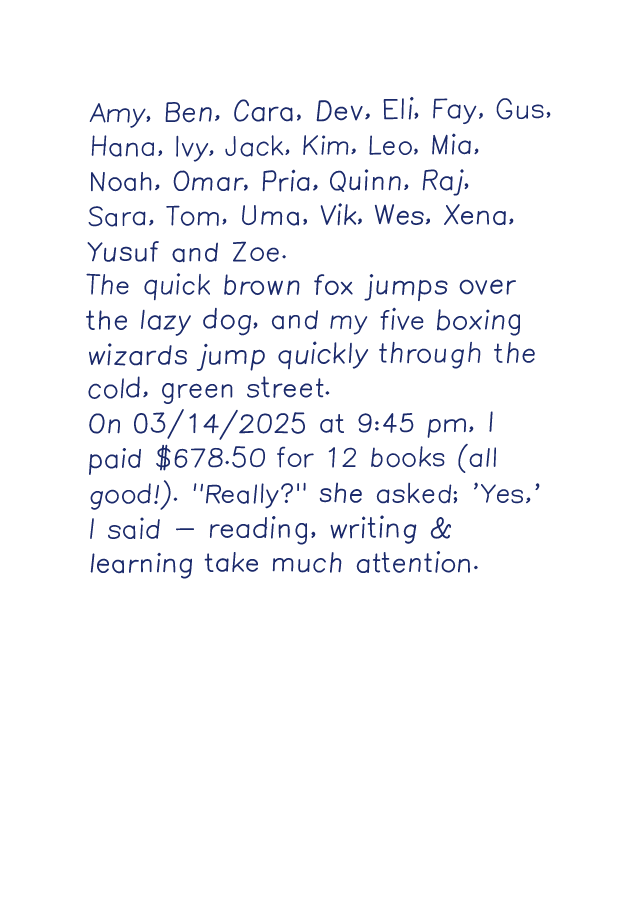
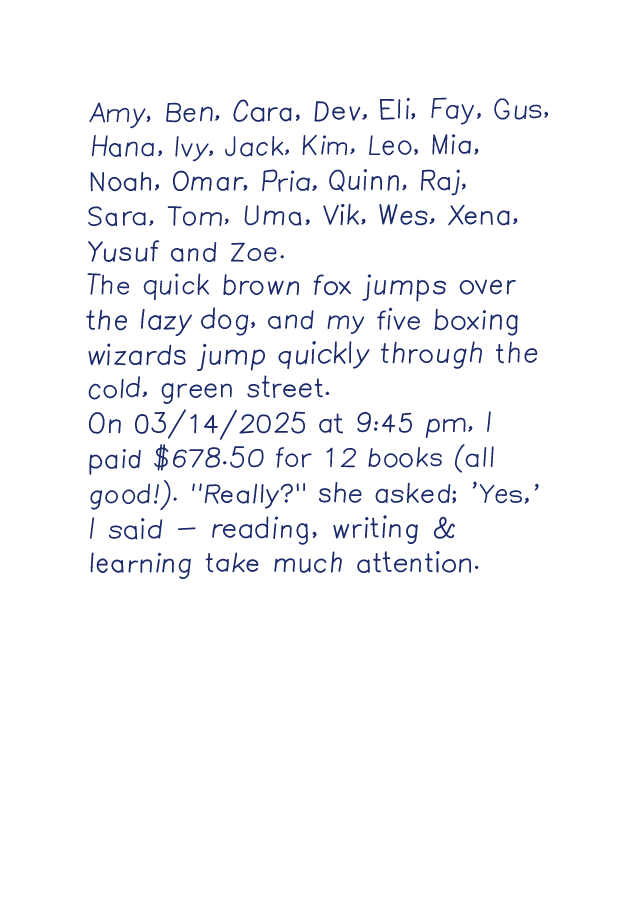
feat(engine): add per-placement glyph warping [1.6]

diff --git a/packages/engine/src/warp.test.ts b/packages/engine/src/warp.test.ts
@@ -1,0 +1,87 @@
+import { createRng } from '@pentwin/shared';
+import { describe, expect, it } from 'vitest';
+import { NO_JITTER } from './jitter';
+import { serializePath } from './path';
+import { renderText } from './render';
+import { loadSampleBank } from './testing';
+import { createWarp } from './warp';
+
+const X_HEIGHT = 140;
+
+describe('createWarp', () => {
+  it('is the identity when the amount is zero', () => {
+    const warp = createWarp(createRng(1), 0, X_HEIGHT);
+    expect(warp(37, -120)).toEqual([37, -120]);
+  });
+
+  it('moves points by a small, bounded distance', () => {
+    for (let seed = 0; seed < 200; seed++) {
+      const warp = createWarp(createRng(seed), 0.05, X_HEIGHT);
+      for (const [x, y] of [
+        [0, 0],
+        [100, -140],
+        [60, 70],
+        [140, -210],
+      ] as const) {
+        const [wx, wy] = warp(x, y);
+        // Affine part is at most 5% of each coordinate (twice for x: scale + shear),
+        // each wave at most 0.7 * 5% of the x-height.
+        const limit = 0.05 * (Math.abs(x) + Math.abs(y)) + 0.035 * X_HEIGHT + 1e-9;
+        expect(Math.abs(wx - x)).toBeLessThanOrEqual(limit);
+        expect(Math.abs(wy - y)).toBeLessThanOrEqual(limit);
+      }
+    }
+  });
+
+  it('bends smoothly: neighbouring points move together', () => {
+    const warp = createWarp(createRng(7), 0.08, X_HEIGHT);
+    const [ax, ay] = warp(50, -50);
+    const [bx, by] = warp(52, -50);
+    expect(Math.hypot(bx - ax - 2, by - ay)).toBeLessThan(0.5);
+  });
+
+  it('differs from one glyph to the next and is reproducible', () => {
+    const rng = createRng(3);
+    const first = createWarp(rng, 0.05, X_HEIGHT)(100, -100);
+    const second = createWarp(rng, 0.05, X_HEIGHT)(100, -100);
+    expect(first).not.toEqual(second);
+    expect(createWarp(createRng(3), 0.05, X_HEIGHT)(100, -100)).toEqual(first);
+  });
+});
+
+describe('warp in rendering', () => {
+  const bank = loadSampleBank();
+  // Normalise each "e" to its own start point, so only the shape is compared.
+  const shapes = (warp: number): Set<string> => {
+    const { pages } = renderText('e'.repeat(60), bank, {
+      seed: 'warp',
+      jitter: { ...NO_JITTER, warp },
+    });
+    return new Set(
+      pages[0]!.strokes.map(({ path }) => {
+        const start = path[0] as { x: number; y: number };
+        return serializePath(
+          path.map((c) =>
+            c.type === 'C'
+              ? {
+                  type: 'C' as const,
+                  x1: c.x1 - start.x,
+                  y1: c.y1 - start.y,
+                  x2: c.x2 - start.x,
+                  y2: c.y2 - start.y,
+                  x: c.x - start.x,
+                  y: c.y - start.y,
+                }
+              : { type: 'M' as const, x: 0, y: 0 },
+          ),
+          1,
+        );
+      }),
+    );
+  };
+
+  it('turns 3 stored variants into a different shape for every placement', () => {
+    expect(shapes(0).size).toBeLessThanOrEqual(3 * 2); // 3 variants, allowing for rounding
+    expect(shapes(0.05).size).toBe(60);
+  });
+});

diff --git a/packages/engine/src/jitter.ts b/packages/engine/src/jitter.ts
@@ -1,5 +1,6 @@
 import type { Rng } from '@pentwin/shared';
 import type { Styler } from './style';
+import { createWarp } from './warp';
 
 /** How far the writing strays from the ideal. All zeros means perfectly mechanical output. */
 export interface JitterParams {
@@ -23,6 +24,8 @@ export interface JitterParams {
   strokeWidth: number;
   /** mm. How far the left edge of the text wanders from line to line. */
   marginDrift: number;
+  /** Fraction of the x-height. How much each placed glyph's shape is bent. */
+  warp: number;
 }
 
 export const NO_JITTER: JitterParams = {
@@ -36,6 +39,7 @@ export const NO_JITTER: JitterParams = {
   slantVariation: 0,
   strokeWidth: 0,
   marginDrift: 0,
+  warp: 0,
 };
 
 export const DEFAULT_JITTER: JitterParams = {
@@ -49,6 +53,7 @@ export const DEFAULT_JITTER: JitterParams = {
   slantVariation: 2,
   strokeWidth: 0.08,
   marginDrift: 0.8,
+  warp: 0.05,
 };
 
 const DEG = Math.PI / 180;
@@ -85,8 +90,19 @@ export function createNoise(rng: Rng): (t: number) => number {
 export const pairBias = (prev: string, char: string): number =>
   hash((prev.codePointAt(0) ?? 0) * 0x10001 + (char.codePointAt(0) ?? 0));
 
-/** Builds the styler for one page. `xHeight` is in mm. */
-export function createJitterStyler(params: JitterParams, rng: Rng, xHeight: number): Styler {
+export interface StyleMetrics {
+  /** x-height on the page, in mm. */
+  xHeight: number;
+  /** x-height of the bank's glyphs, in glyph units. */
+  glyphXHeight: number;
+}
+
+/** Builds the styler for one page. */
+export function createJitterStyler(
+  params: JitterParams,
+  rng: Rng,
+  { xHeight, glyphXHeight }: StyleMetrics,
+): Styler {
   // Sum of two uniforms: mostly small values, occasionally a larger one.
   const wobble = (): number => rng.next() + rng.next() - 1;
 
@@ -119,6 +135,7 @@ export function createJitterStyler(params: JitterParams, rng: Rng, xHeight: numb
         slant:
           (params.slant + params.slantVariation * (0.7 * slant(t / 30) + 0.3 * wobble())) * DEG,
         strokeScale: 1 + params.strokeWidth * (0.6 * stroke(t / 12) + 0.4 * wobble()),
+        warp: params.warp > 0 ? createWarp(rng, params.warp, glyphXHeight) : undefined,
       };
     },
 

diff --git a/packages/engine/src/warp.ts b/packages/engine/src/warp.ts
@@ -1,0 +1,35 @@
+import type { Rng } from '@pentwin/shared';
+import type { PointFn } from './path';
+
+/**
+ * Builds a one-off distortion for a single placed glyph: a tiny affine change plus a
+ * smooth, low-frequency bend. Applied on top of variant selection, it means a stored
+ * variant never appears twice with exactly the same shape.
+ *
+ * `amount` is a fraction of the x-height (0.05 is subtle, 0.15 is sloppy). `xHeight` is in
+ * the same units as the points being warped.
+ */
+export function createWarp(rng: Rng, amount: number, xHeight: number): PointFn {
+  const scaleX = 1 + amount * rng.float(-1, 1);
+  const scaleY = 1 + amount * rng.float(-1, 1);
+  const shear = amount * rng.float(-1, 1);
+
+  // Wavelengths longer than the glyph itself, so strokes bend rather than wiggle.
+  const wave = () => {
+    const direction = rng.float(0, Math.PI * 2);
+    const k = (Math.PI * 2) / (xHeight * rng.float(1.5, 4));
+    return {
+      kx: Math.cos(direction) * k,
+      ky: Math.sin(direction) * k,
+      phase: rng.float(0, Math.PI * 2),
+      amplitude: amount * xHeight * rng.float(0.3, 0.7),
+    };
+  };
+  const wx = wave();
+  const wy = wave();
+
+  return (x, y) => [
+    x * scaleX + y * shear + wx.amplitude * Math.sin(wx.kx * x + wx.ky * y + wx.phase),
+    y * scaleY + wy.amplitude * Math.sin(wy.kx * x + wy.ky * y + wy.phase),
+  ];
+}

diff --git a/packages/engine/src/jitter.test.ts b/packages/engine/src/jitter.test.ts
@@ -14,6 +14,7 @@ import { sceneToSvg } from './svg';
 import { loadSampleBank } from './testing';
 
 const bank = loadSampleBank();
+const metrics = { xHeight: 3, glyphXHeight: bank.xHeight };
 const text = 'The quick brown fox jumps over the lazy dog. '.repeat(12);
 const svg = (jitter: JitterParams | undefined, seed = 'j'): string =>
   sceneToSvg(renderText(text, bank, { seed, jitter }).pages[0]!);
@@ -55,7 +56,7 @@ describe('jitter', () => {
   });
 
   it('keeps baseline drift within its amplitude and makes it smooth', () => {
-    const styler = createJitterStyler({ ...NO_JITTER, baselineDrift: 0.5 }, createRng(4), 3);
+    const styler = createJitterStyler({ ...NO_JITTER, baselineDrift: 0.5 }, createRng(4), metrics);
     const line = styler.line(3);
     let previous = line.baselineShift(20);
     let moved = false;
@@ -86,7 +87,7 @@ describe('jitter', () => {
   });
 
   it('varies size, pen width and word gaps within their limits', () => {
-    const styler = createJitterStyler(DEFAULT_JITTER, createRng(8), 3);
+    const styler = createJitterStyler(DEFAULT_JITTER, createRng(8), metrics);
     for (let i = 0; i < 2000; i++) {
       const g = styler.glyph('a');
       expect(Math.abs(g.scale - 1)).toBeLessThanOrEqual(DEFAULT_JITTER.size + 1e-9);

diff --git a/scripts/make-samples.ts b/scripts/make-samples.ts
@@ -4,7 +4,12 @@
  *   pnpm samples
  */
 import { mkdirSync, readFileSync, writeFileSync } from 'node:fs';
-import { DEFAULT_JITTER, renderText, type RenderOptions } from '../packages/engine/src/index';
+import {
+  DEFAULT_JITTER,
+  NO_JITTER,
+  renderText,
+  type RenderOptions,
+} from '../packages/engine/src/index';
 import { loadGlyphBank, sceneToPng } from '../packages/engine/src/node/index';
 
 const { bank } = loadGlyphBank('tests/fixtures/glyphs/sample-user');
@@ -14,6 +19,11 @@ const base: RenderOptions = { seed: 'samples', pageSize: 'A5' };
 const samples: Record<string, [text: string, options: RenderOptions]> = {
   'jitter-off': [sample, base],
   'jitter-on': [sample, { ...base, jitter: DEFAULT_JITTER }],
+  // Only the warp is on, so every difference between two letters comes from it.
+  'warp-e': [
+    'eeee eeee eeee eeee eeee eeee eeee eeee eeee eeee eeee eeee eeee eeee',
+    { ...base, lineHeight: 14, jitter: { ...NO_JITTER, warp: 0.05 } },
+  ],
 };
 
 mkdirSync('docs/samples', { recursive: true });

diff --git a/packages/engine/src/render.ts b/packages/engine/src/render.ts
@@ -104,11 +104,10 @@ export function renderText(text: string, bank: GlyphBank, options: RenderOptions
       createRng(`${options.seed}/page${pageIndex}/variants`),
     );
     const styler: Styler = options.jitter
-      ? createJitterStyler(
-          options.jitter,
-          createRng(`${options.seed}/page${pageIndex}/style`),
+      ? createJitterStyler(options.jitter, createRng(`${options.seed}/page${pageIndex}/style`), {
           xHeight,
-        )
+          glyphXHeight: bank.xHeight,
+        })
       : identityStyler;
     const strokes: InkStroke[] = [];
 

diff --git a/packages/engine/src/index.ts b/packages/engine/src/index.ts
@@ -5,3 +5,4 @@ export * from './render';
 export * from './style';
 export * from './svg';
 export * from './jitter';
+export * from './warp';

diff --git a/PROJECT.md b/PROJECT.md
@@ -126,7 +126,8 @@ On 03/14/2025 at 9:45 pm, I paid $678.50 for 12 books (all good!). "Really?" she
 - [x] **1.5 Jitter module (`jitter.ts`).** All parameters from CLAUDE.md 5.5 (baseline drift, line slope, rotation, size, word/letter spacing, slant, stroke width), seeded and configurable. Make drift **correlated** (smooth low-frequency noise), not pure white noise. Humans drift smoothly; pure random looks fake.
   *Note:* CLAUDE.md was empty when this was built, so the parameter values are the engine's own defaults, not those of section 5.5. Visual sample: `docs/samples/jitter-off.png` vs `jitter-on.png`.
   *Acceptance:* visual sample with jitter off vs on; same seed reproduces exactly.
-- [ ] **1.6 Procedural glyph warping.** Per-placement tiny affine + low-frequency noise warp so 3 stored variants never look like 3 variants.
+- [x] **1.6 Procedural glyph warping.** Per-placement tiny affine + low-frequency noise warp so 3 stored variants never look like 3 variants.
+  *Note:* visual sample: `docs/samples/warp-e.png`.
   *Acceptance:* a paragraph with the letter "e" repeated shows visible but natural variation.
 - [ ] **1.7 Paper backgrounds (`paper.ts`).** Plain, ruled (narrow/wide/college), margin line, graph, dotted. Text must sit **on the lines** with believable imperfection.
   *Acceptance:* ruled-page sample where baseline tracks the ruling.
